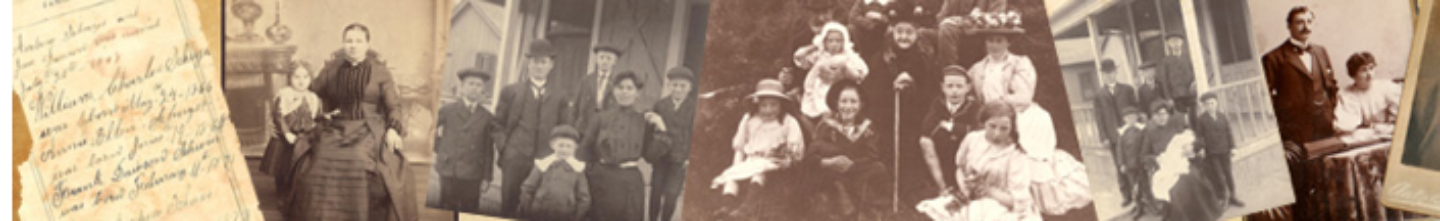
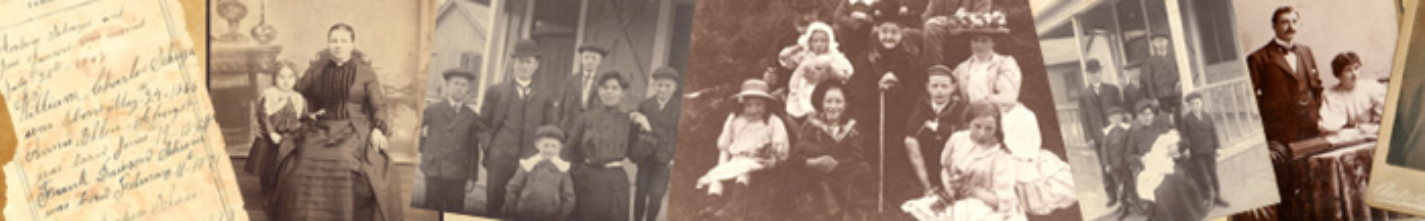
update image and css

diff --git a/styles/style.css b/styles/style.css
@@ -27,7 +27,7 @@ body {
     background-size: 100%;
     justify-content: center;
     align-items: center;
-    height:200px;
+    height:221px;
     color:white;
     font-family: 'Pacifico', sans-serif;
     font-size:48px;
